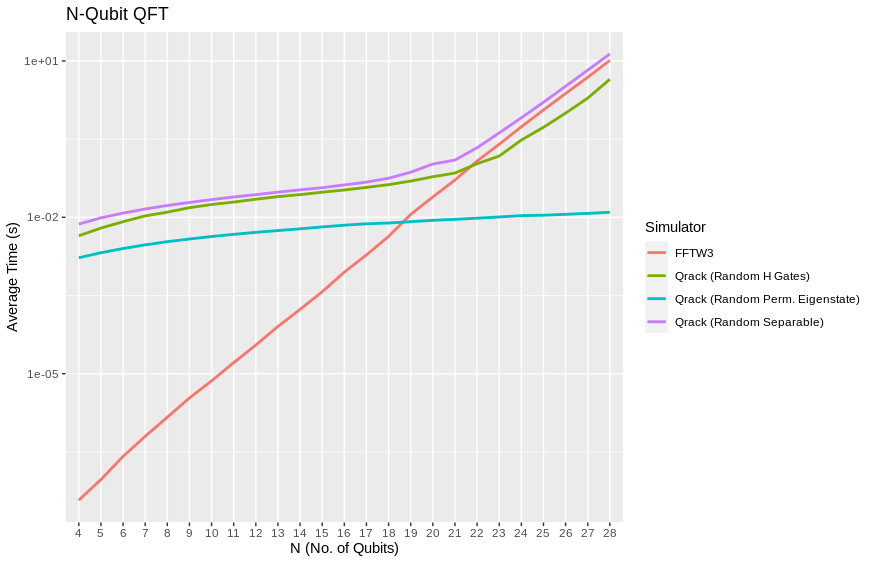
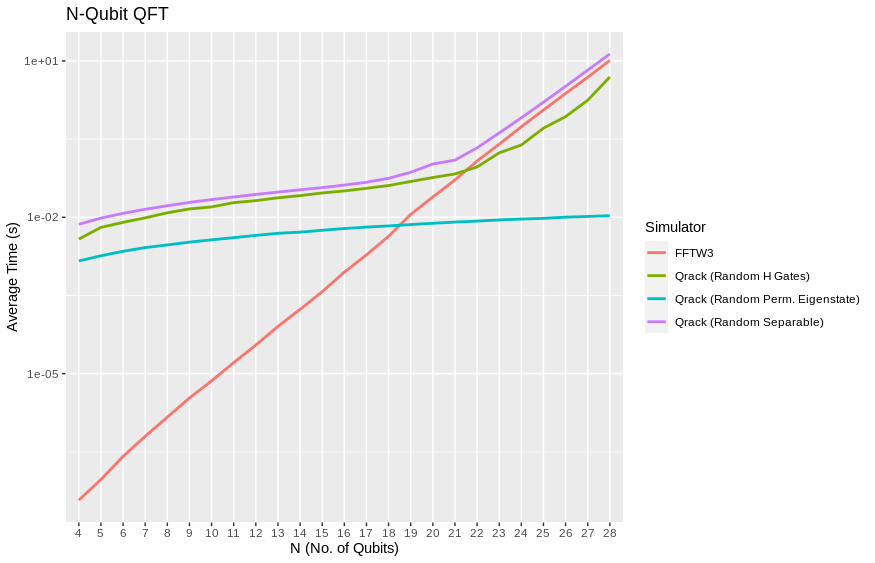
New benchmarks

diff --git a/docs/performance.rst b/docs/performance.rst
@@ -78,7 +78,7 @@ This performance document is meant to be a simple, to-the-point, and preliminary
 
 100 timed trials of single and parallel gates were run for each qubit count between 4 and 28 qubits. Three tests were performed: the quantum Fourier transform, ("QFT"), random circuits constructed from a universal gate set, and an idealized approximation of Google's Sycamore chip benchmark, as per [Sycamore]_. The benchmarking code is available at `https://github.com/vm6502q/simulator-benchmarks <https://github.com/vm6502q/simulator-benchmarks>`_.
 
-CPU and GPU benchmarks were run on two respective systems that could represent realistic use cases for each engine type. Among AWS virtual machine instances, we sought to find those systems with the lowest possible cost to run the benchmarks for their respective execution times, at or below for the 28 qubit mark. An AWS g3s.xlarge running Ubuntu Server 18.04LTS was selected for GPU benchmarks. An AWS c5.4xlarge running Ubuntu Server 18.04LTS was selected for CPU benchmarks, including FFTW3 for comparison on the QFT test. Benchmarks were collected from December 27, 2019 through January 24, 2020. Given delays in soliciting peer opinion, while development of Qrack continued, the Qrack benchmarks were updated on April 15, 2020. These results were combined with single gate, N-width gate and Grover's search benchmarks for Qrack, collected overnight from December 19th, 2018 into the morning of December 20th. (The potential difference since December 2018 in these particular Qrack tests reused from then should be insignificant. We took care to try to report fair tests, within cost limitations, but please let us know if you find anything that appears misrepresentative.)
+CPU and GPU benchmarks were run on two respective systems that could represent realistic use cases for each engine type. Among AWS virtual machine instances, we sought to find those systems with the lowest possible cost to run the benchmarks for their respective execution times, at or below for the 28 qubit mark. An AWS g3s.xlarge running Ubuntu Server 18.04LTS was selected for GPU benchmarks. An AWS c5.4xlarge running Ubuntu Server 18.04LTS was selected for CPU benchmarks, including FFTW3 for comparison on the QFT test. Benchmarks were collected from December 27, 2019 through January 24, 2020. Given delays in soliciting peer opinion, while development of Qrack continued, the Qrack benchmarks were updated on April 20th, 2020. These results were combined with single gate, N-width gate and Grover's search benchmarks for Qrack, collected overnight from December 19th, 2018 into the morning of December 20th. (The potential difference since December 2018 in these particular Qrack tests reused from then should be insignificant. We took care to try to report fair tests, within cost limitations, but please let us know if you find anything that appears misrepresentative.)
 
 The average time of each set of 100 was recorded and graphed. Grover's search to invert a black box subroutine, or "oracle," was similarly implemented for trials between 5 and 20 qubits, for QEngineOCL with and without QUnit and QFusion layers. Grover's algorithm was iterated an optimal number of times, vs. qubit count, to maximize probability on a half cycle of the algorithm's period, being :math:`floor\left[\frac{\pi}{4asin^2\left(1/\sqrt{2^N}\right)}\right]` iterations for :math:`N` qubits.
 
@@ -125,11 +125,41 @@ The "quantum" (or "discrete") Fourier transform (QFT/DFT) is a realistic and imp
 
 Recall that QCGPU and Qrack are GPU-implementations run on AWS g3s.xlarge instances, whereas all other candidates are run on AWS c5.4xlarge instances. Under these considerations, by the 28 qubit level, Qrack out-performs all other candidates except FFTW3. (Recall, also, that Qrack uses a representatively "hard" initialization on this test, as described above, whereas permutation basis eigenstate inputs, for example, are much more quickly executed.) Though we are comparing CPU to GPU, CPU-based FFTW3 is clearly the best suited for low numbers of qubits, in general. However, Qrack is the only candidate tested which exhibits even better special case performance on the QFT, as for random permutation basis eigenstate initialization, or initialization via permutation basis eigenstates with random "H" gates applied, before QFT.
 
-Similarly, on random universal circuits, defined above and in the benchmark repository, Qrack leads over all other candidates considered by the 24 qubit mark and up. GPU-based QCGPU leads on the test system for 23 qubits and below, and CPU-based Cirq leads for 8 qubits and fewer.
+On random universal circuits, Qrack's optimized QUnit type appears to achieve effectively linear performance up to at least 26 qubits on the test system, with only a comparatively small deviation from this at 27 and 28 qubits. For more than 20 qubits, Qrack clearly leads over all other candidates. GPU-based QCGPU leads on the test system for 19-20 qubits and below, and CPU-based Cirq leads for 8 qubits and fewer.
 
 .. image:: performance/random_universal.png
 
-Qrack's QUnit makes a fundamental improvement on an idealization of the Sycamore circuit, which we strongly encourage the reader to analyze and reproduce with the provided public benchmark code.
+This might be an extraordinary claim, that Qrack's optimization layer achieves apparently linear performance in the test domain. We should be clear that this is average performance, whereas worst case iterations in the spread of the benchmark tests still approach exponential resource usage. To validate that QUnit is actually reproducing the equivalent measurement distribution of the other libraries, we have implemented a cross entropy benchmark test between Qrack's QUnit and its Schrödinger method "QEngine" types. This test is available as "test_universal_circuit_digital_cross_entropy" in the vm6502q/qrack repository standard benchmark suit. This benchmark can be run on demand, and its width, depth, and iteration count parameters can be varied as desired, (by changing these constants declared in code). This is an example of an actual output from the benchmark:
+
+.. code-block:: bash
+
+       $ ./benchmarks --proc-opencl-single --layer-qunit-qfusion --enable-normalization test_universal_circuit_digital_cross_entropy
+       Random Seed: 1587426549 (Overridden by hardware generation!)
+       ############ QUnit -> QFusion -> OpenCL ############
+       Device #0, Loaded binary from: /home/iamu/.qrack/qrack_ocl_dev_0.ir
+       Device #1, Loaded binary from: /home/iamu/.qrack/qrack_ocl_dev_1.ir
+       Device #2, Loaded binary from: /home/iamu/.qrack/qrack_ocl_dev_2.ir
+       Default platform: NVIDIA CUDA
+       Default device: GeForce GTX 1070
+       OpenCL device #0: Intel(R) Gen9 HD Graphics NEO
+       OpenCL device #1: Intel(R) Core(TM) i7-8750H CPU @ 2.20GHz
+       OpenCL device #2: GeForce GTX 1070
+       Filters: test_universal_circuit_digital_cross_entropy
+       >>> 'test_universal_circuit_digital_cross_entropy':
+       Width: 8 qubits
+       Depth: 3 layers of 1 qubit then multi-qubit gates
+       samples collected: 20000
+       Calculated gold standard distribution.
+       Gold standard vs. uniform random cross entropy (out of 1.0): 0.651946
+       Gold standard vs. gold standard cross entropy (out of 1.0): 0.990022
+       Gold standard vs. test case cross entropy (out of 1.0): 0.994449
+       ===============================================================================
+       test cases: 1 | 1 passed
+       assertions: - none -
+
+One can easily reproduce and vary the width, depth, and iteration count parameters of this test, to satisfy themselves that QUnit has reproduced the measurement result distribution of a Schrödinger method simulation.
+
+Qrack's QUnit also makes a fundamental improvement on an idealization of the Sycamore circuit, which we strongly encourage the reader to analyze and reproduce with the provided public benchmark code.
 
 .. image:: performance/sycamore.png
 
@@ -137,7 +167,7 @@ Qrack's QUnit makes a fundamental improvement on an idealization of the Sycamore
 Discussion
 **********
 
-Up to a consistent deviation at low qubit counts, speed and RAM usage for Schrödinger method "QEngine" types is well predicted by theoretical complexity considerations of the gates, up to about a factor of 2 on heap usage for duplication of the state vector, with additional 1/2 the size of state vector allocated by QEngineOCL for an auxiliary normalization buffer.
+Up to a consistent deviation at low qubit counts, speed and RAM usage for Schrödinger method QEngine types is well predicted by theoretical complexity considerations of the gates, up to about a factor of 2 on heap usage for duplication of the state vector, with additional 1/2 the size of state vector allocated by QEngineOCL for an auxiliary normalization buffer.
 
 Qrack::QUnit succeeds as a novel and fundamentally improved quantum simulation algorithm, over the naive Schrödinger algorithm. Primarily, QUnit does this by representing its state vector in terms of decomposed subsystems, as well as buffering and commuting H gates and singly-controlled gates. On user and internal probability checks, QUnit will attempt to separate the representations of independent subsystems by Schmidt decomposition. Further, Qrack will avoid applying phase effects that make no difference to the expectation values of any Hermitian operators, (no difference to "physical observables"). For each bit whose representation is separated this way, we recover a factor of close to or exactly 1/2 the subsystem RAM and gate execution time.
 
